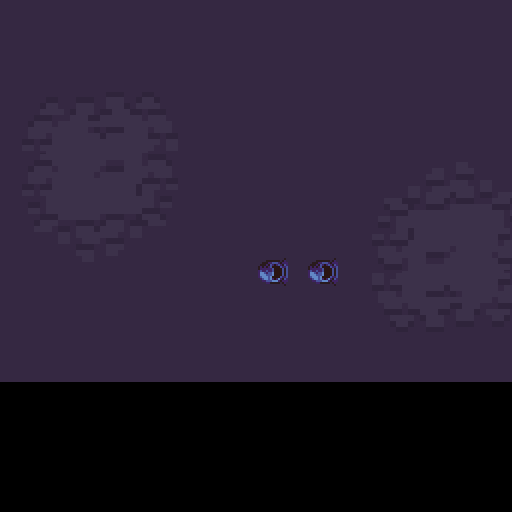
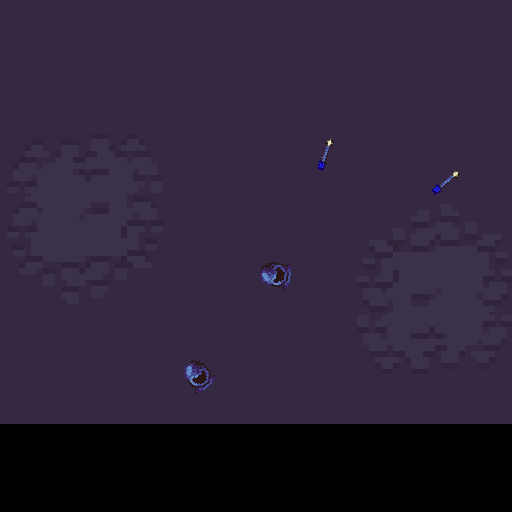
now i think my zombie detection is fast enough, and i have access to agent position, angle is next

diff --git a/submission.py b/submission.py
@@ -19,9 +19,11 @@ class CustomWrapper(BaseWrapper):
     """
 
     def observation_space(self, agent: AgentID) -> gymnasium.spaces.Space:
-        max_zombies = self.env.unwrapped.max_zombies
+        return spaces.flatten_space(super().observation_space(agent))
+
+        '''max_zombies = self.env.unwrapped.max_zombies
         box = spaces.Box(low=-1, high=512, shape=(max_zombies,2), dtype=np.int8)
-        return box
+        return box'''
 
     def observe(self, agent: AgentID) -> ObsType | None:
         max_zombies = self.env.unwrapped.max_zombies
@@ -36,18 +38,39 @@ class CustomWrapper(BaseWrapper):
         )
         
         minLoc = tm.observations_matching(obs,padded_image)
-        boxes = CustomZombieDetectorFunction(state)
-        
-        
+        if agent == "archer_0":
+            cv2.circle(padded_image, (minLoc[0],minLoc[1]), 5, (0,0,255), -1)
+            detector = CustomZombieDetectorFunction(self.env)
+            boxes = detector(state)
+            for box in boxes:
+                print(box)
+                x, y, w, h = box
+                zx = x + w // 2 + 256
+                zy = y + h // 2 + 256
+                cv2.circle(padded_image, (int(zx), int(zy)), 5, (255, 0, 0), -1)
+            
+            cv2.imwrite("obs_image.png", obs)
+            cv2.imwrite("state_image.png", padded_image)
 
+            x, y = minLoc
+            x+=20
+            y+=20
+            crop_size = 36
+            half = crop_size // 2
+            x1 = max(x - half, 0)
+            y1 = max(y - half, 0)
+            x2 = x + half
+            y2 = y + half
+            player_crop = padded_image[y1:y2, x1:x2].copy()
+            cv2.imwrite("player_crop.png", player_crop)
 
-        return obs
+        return state
 
 
 class CustomPredictFunction(Callable):
     """Function to use to load the trained model and predict the action"""
 
-    def __init__(self, env):
+    '''def __init__(self, env):
 
         # Here you should load your trained model(s) from a checkpoint in your folder
         best_checkpoint = (Path("results") / "learner_group" / "learner" / "rl_module").resolve()
@@ -62,7 +85,13 @@ class CustomPredictFunction(Callable):
             fwd_outputs["action_dist_inputs"]
         )
         action = action_dist.sample()[0].numpy()
-        return action
+        return action'''
+    
+    def __init__(self, env):
+        self.env = env
+
+    def __call__(self, observation, agent, *args, **kwargs):
+        return self.env.action_space(agent).sample()
 
 
 class CustomZombieDetectorFunction(Callable):
@@ -89,10 +118,14 @@ class CustomZombieDetectorFunction(Callable):
             real_center_y = b_box[1]+15
             matrix.append(real_center_x,real_center_y,30,30)'''
         
-        
+        img = observation.astype(np.uint8)
+
+        # Convert BGR → RGB if using OpenCV
+        if img.shape[2] == 3:  # 3 channels
+            img = cv2.cvtColor(img, cv2.COLOR_BGR2RGB)
         matrix = []
         #boxes, indices = tm.find_zombies(observation)
-        results = self._model.predict(observation, imgsz=416) 
+        results = self._model.predict(img, imgsz=416) 
         boxes = results[0].boxes
         for box in boxes:
             matrix.append(box.xywh[0])

diff --git a/evaluation.py b/evaluation.py
@@ -99,7 +99,9 @@ def evaluate(
         for agent in env.agent_iter():
             obs, reward, termination, truncation, info = env.last()
             #print(obs.shape)
-
+            obs_small = env.unwrapped.observe(agent)
+            '''img = Image.fromarray(obs_small,mode = 'RGB')
+            img.save('proof.png')'''
             '''if (step_count<3000*20):
                 if step_count%20==0:
                     data_generator.generate_one_data_point(env,agent,obs,step_count)'''

diff --git a/random_agent.py b/random_agent.py
@@ -20,6 +20,8 @@ class CustomWrapper(BaseWrapper):
 
     def observe(self, agent: AgentID) -> ObsType | None:
         obs = self.env.unwrapped.observe(agent)
+        '''img = Image.fromarray(obs,mode = 'RGB')
+        img.save('proof.png')'''
         #obs = self.env.observe(agent)
         return obs
 
